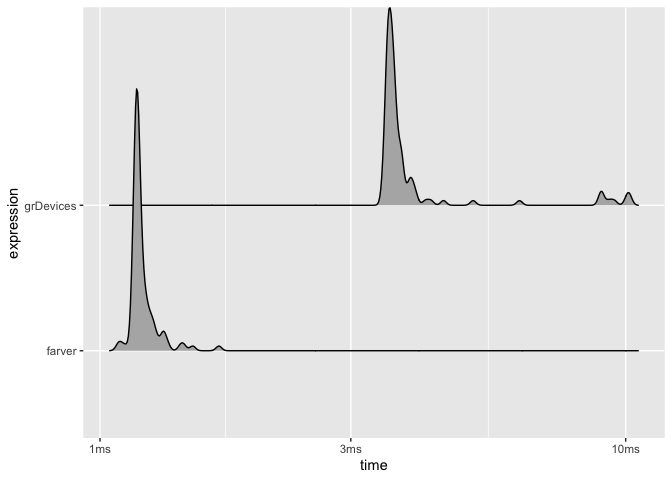
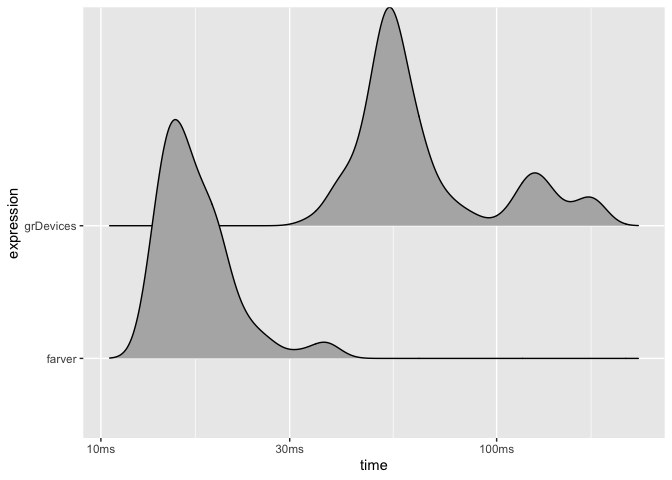
revert to old number of bench colours

diff --git a/README.md b/README.md
@@ -56,17 +56,17 @@ spectrum
 #> [10,] 255     0  153
 
 convert_colour(spectrum, 'rgb', 'lab')
-#>              l         a          b
-#>  [1,] 53.24079  80.09796   67.20432
-#>  [2,] 72.26072  30.17136   77.22610
-#>  [3,] 93.60533 -41.93879   90.27635
-#>  [4,] 88.07403 -83.10282   83.59544
-#>  [5,] 88.19634 -80.27407   57.92961
-#>  [6,] 91.11322 -48.08151  -14.12690
-#>  [7,] 47.90478  35.20130  -82.00196
-#>  [8,] 33.81896  79.70472 -105.27489
-#>  [9,] 51.90416  91.00028  -74.83009
-#> [10,] 55.65103  86.53436   -9.71618
+#>              l         a           b
+#>  [1,] 53.24079  80.09246   67.203197
+#>  [2,] 72.26072  30.16539   77.224482
+#>  [3,] 93.60533 -41.94504   90.274226
+#>  [4,] 88.07403 -83.10813   83.593379
+#>  [5,] 88.19634 -80.27943   57.926987
+#>  [6,] 91.11322 -48.08753  -14.131186
+#>  [7,] 47.90478  35.19678  -82.006104
+#>  [8,] 33.81896  79.70044 -105.279006
+#>  [9,] 51.90416  90.99470  -74.834222
+#> [10,] 55.65103  86.52861   -9.719051
 ```
 
 ### Comparison
@@ -125,7 +125,7 @@ improved since.
 
 ``` r
 library(ggplot2)
-test <- matrix(runif(30000, min = 0, max = 255), ncol = 3)
+test <- matrix(runif(300000, min = 0, max = 255), ncol = 3)
 timing <- bench::mark(
   farver = convert_colour(test, 'rgb', 'lab'),
   grDevices = convertColor(test, 'sRGB', 'Lab', scale.in = 255), 
